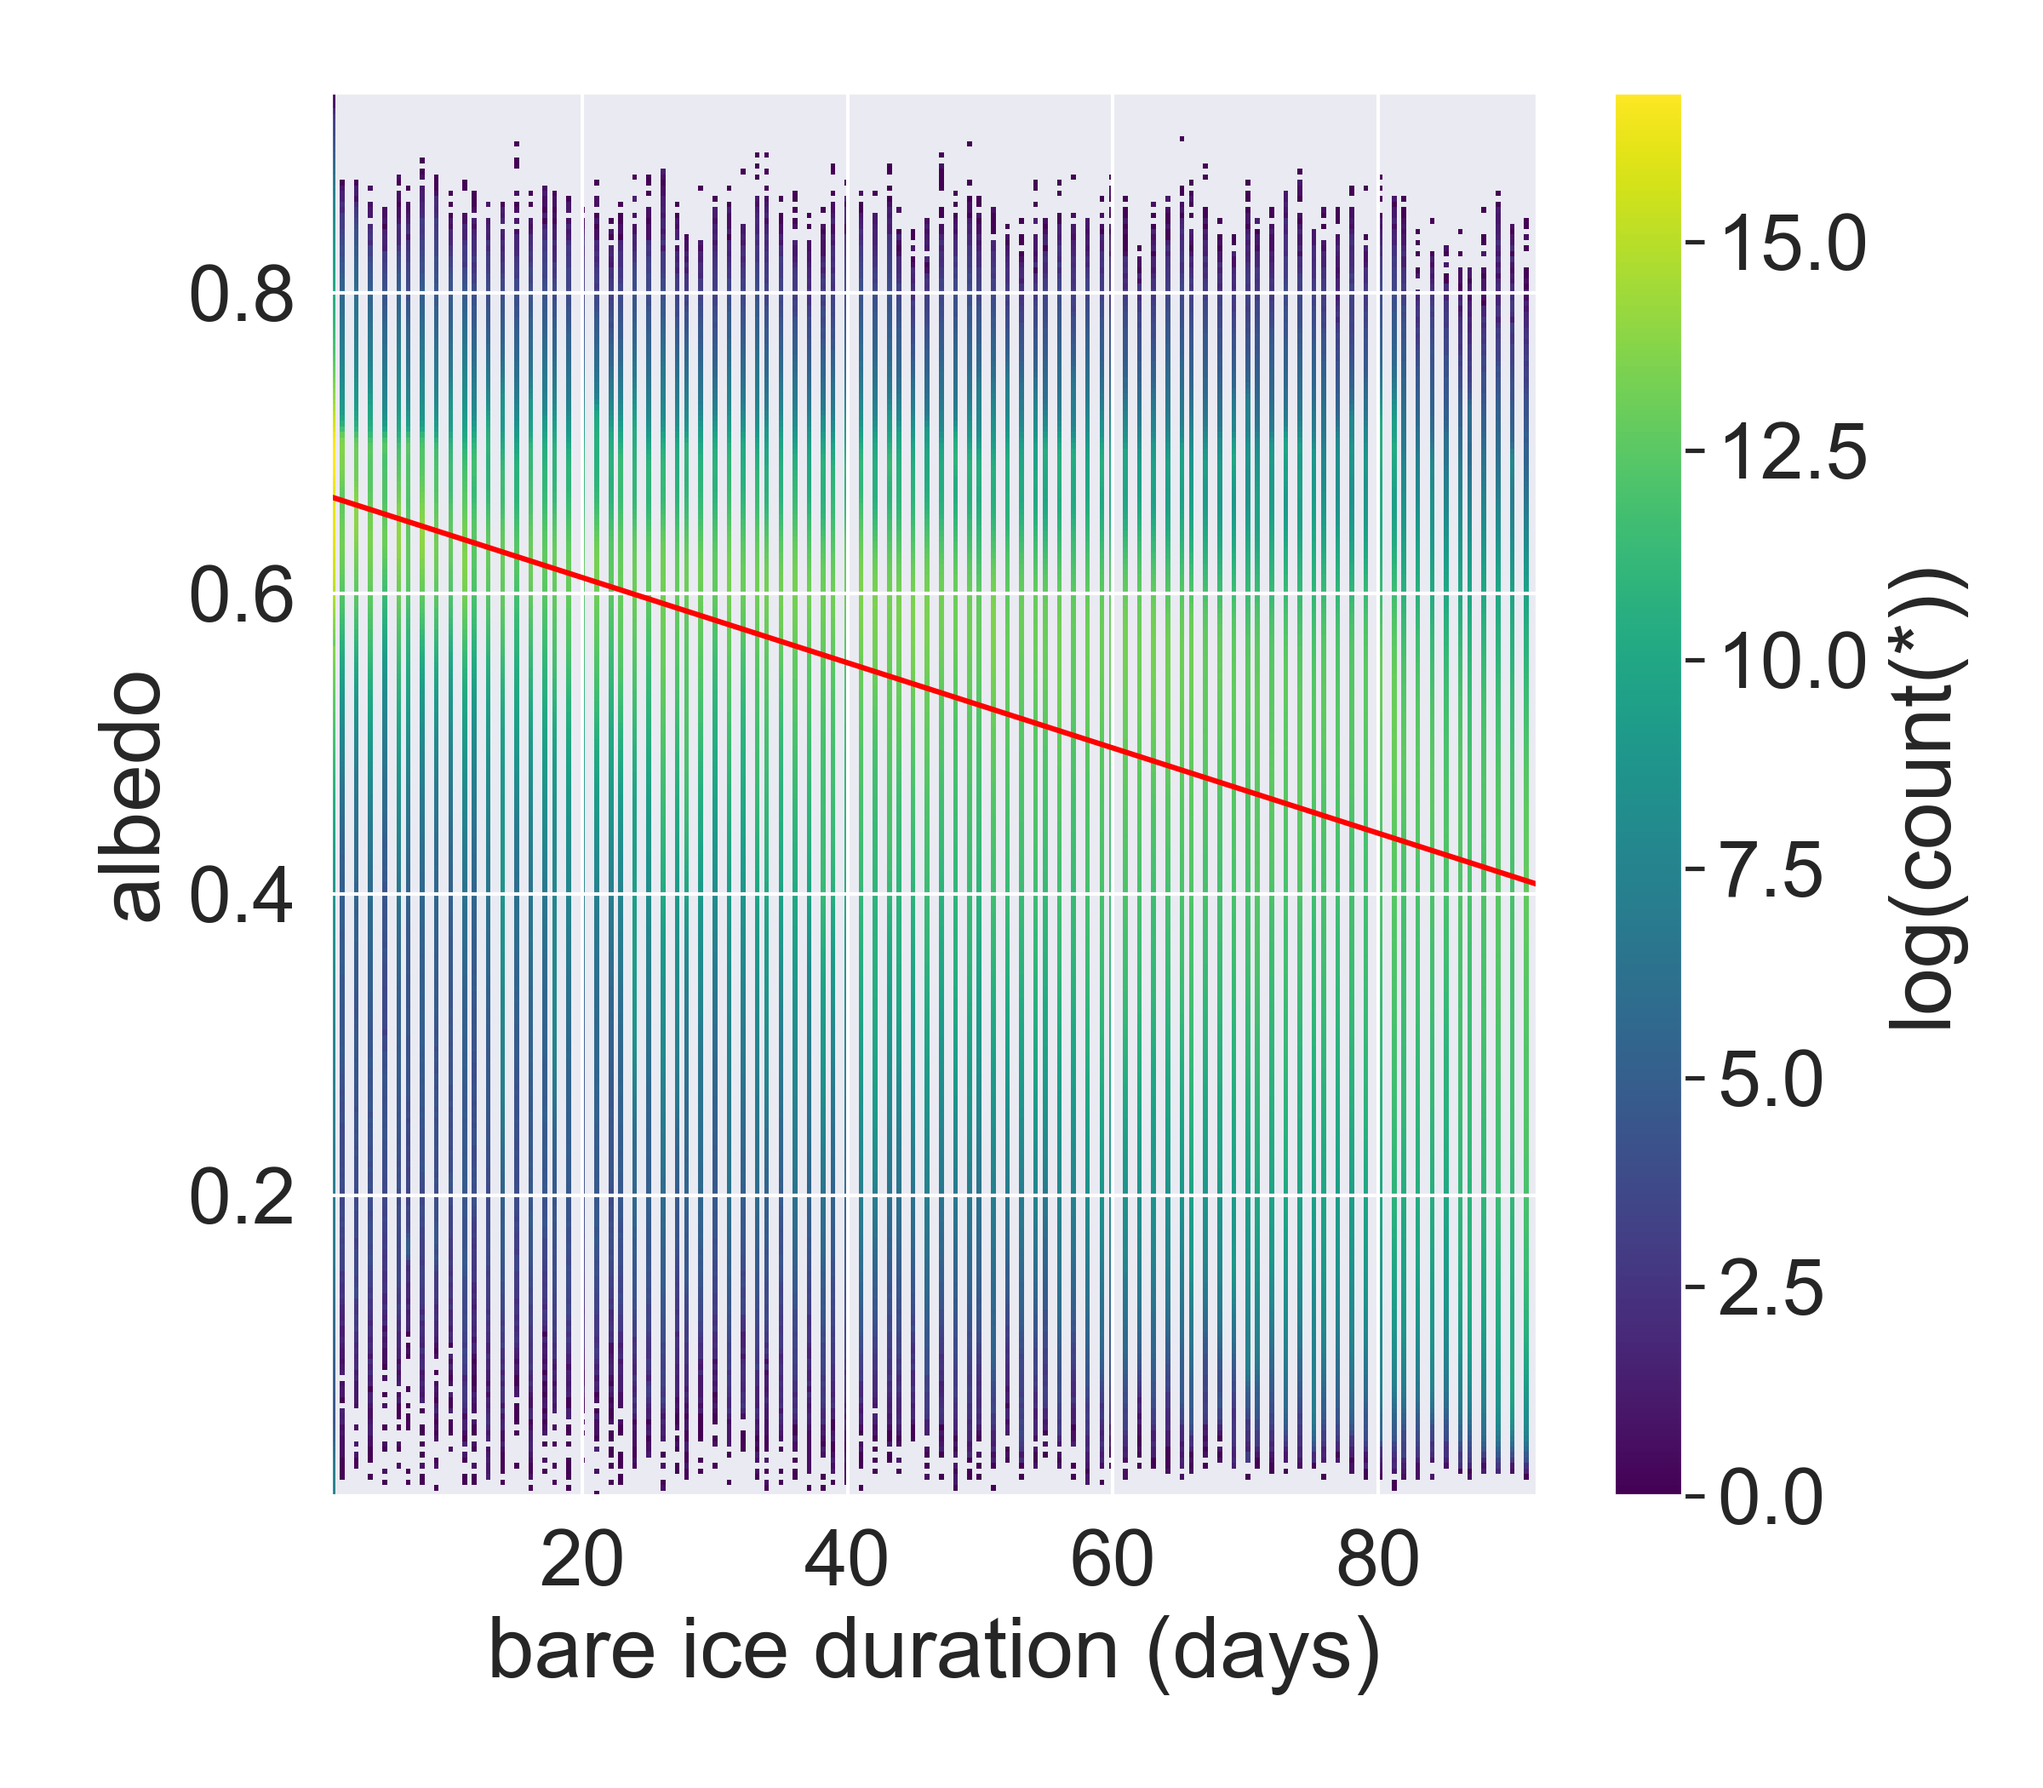
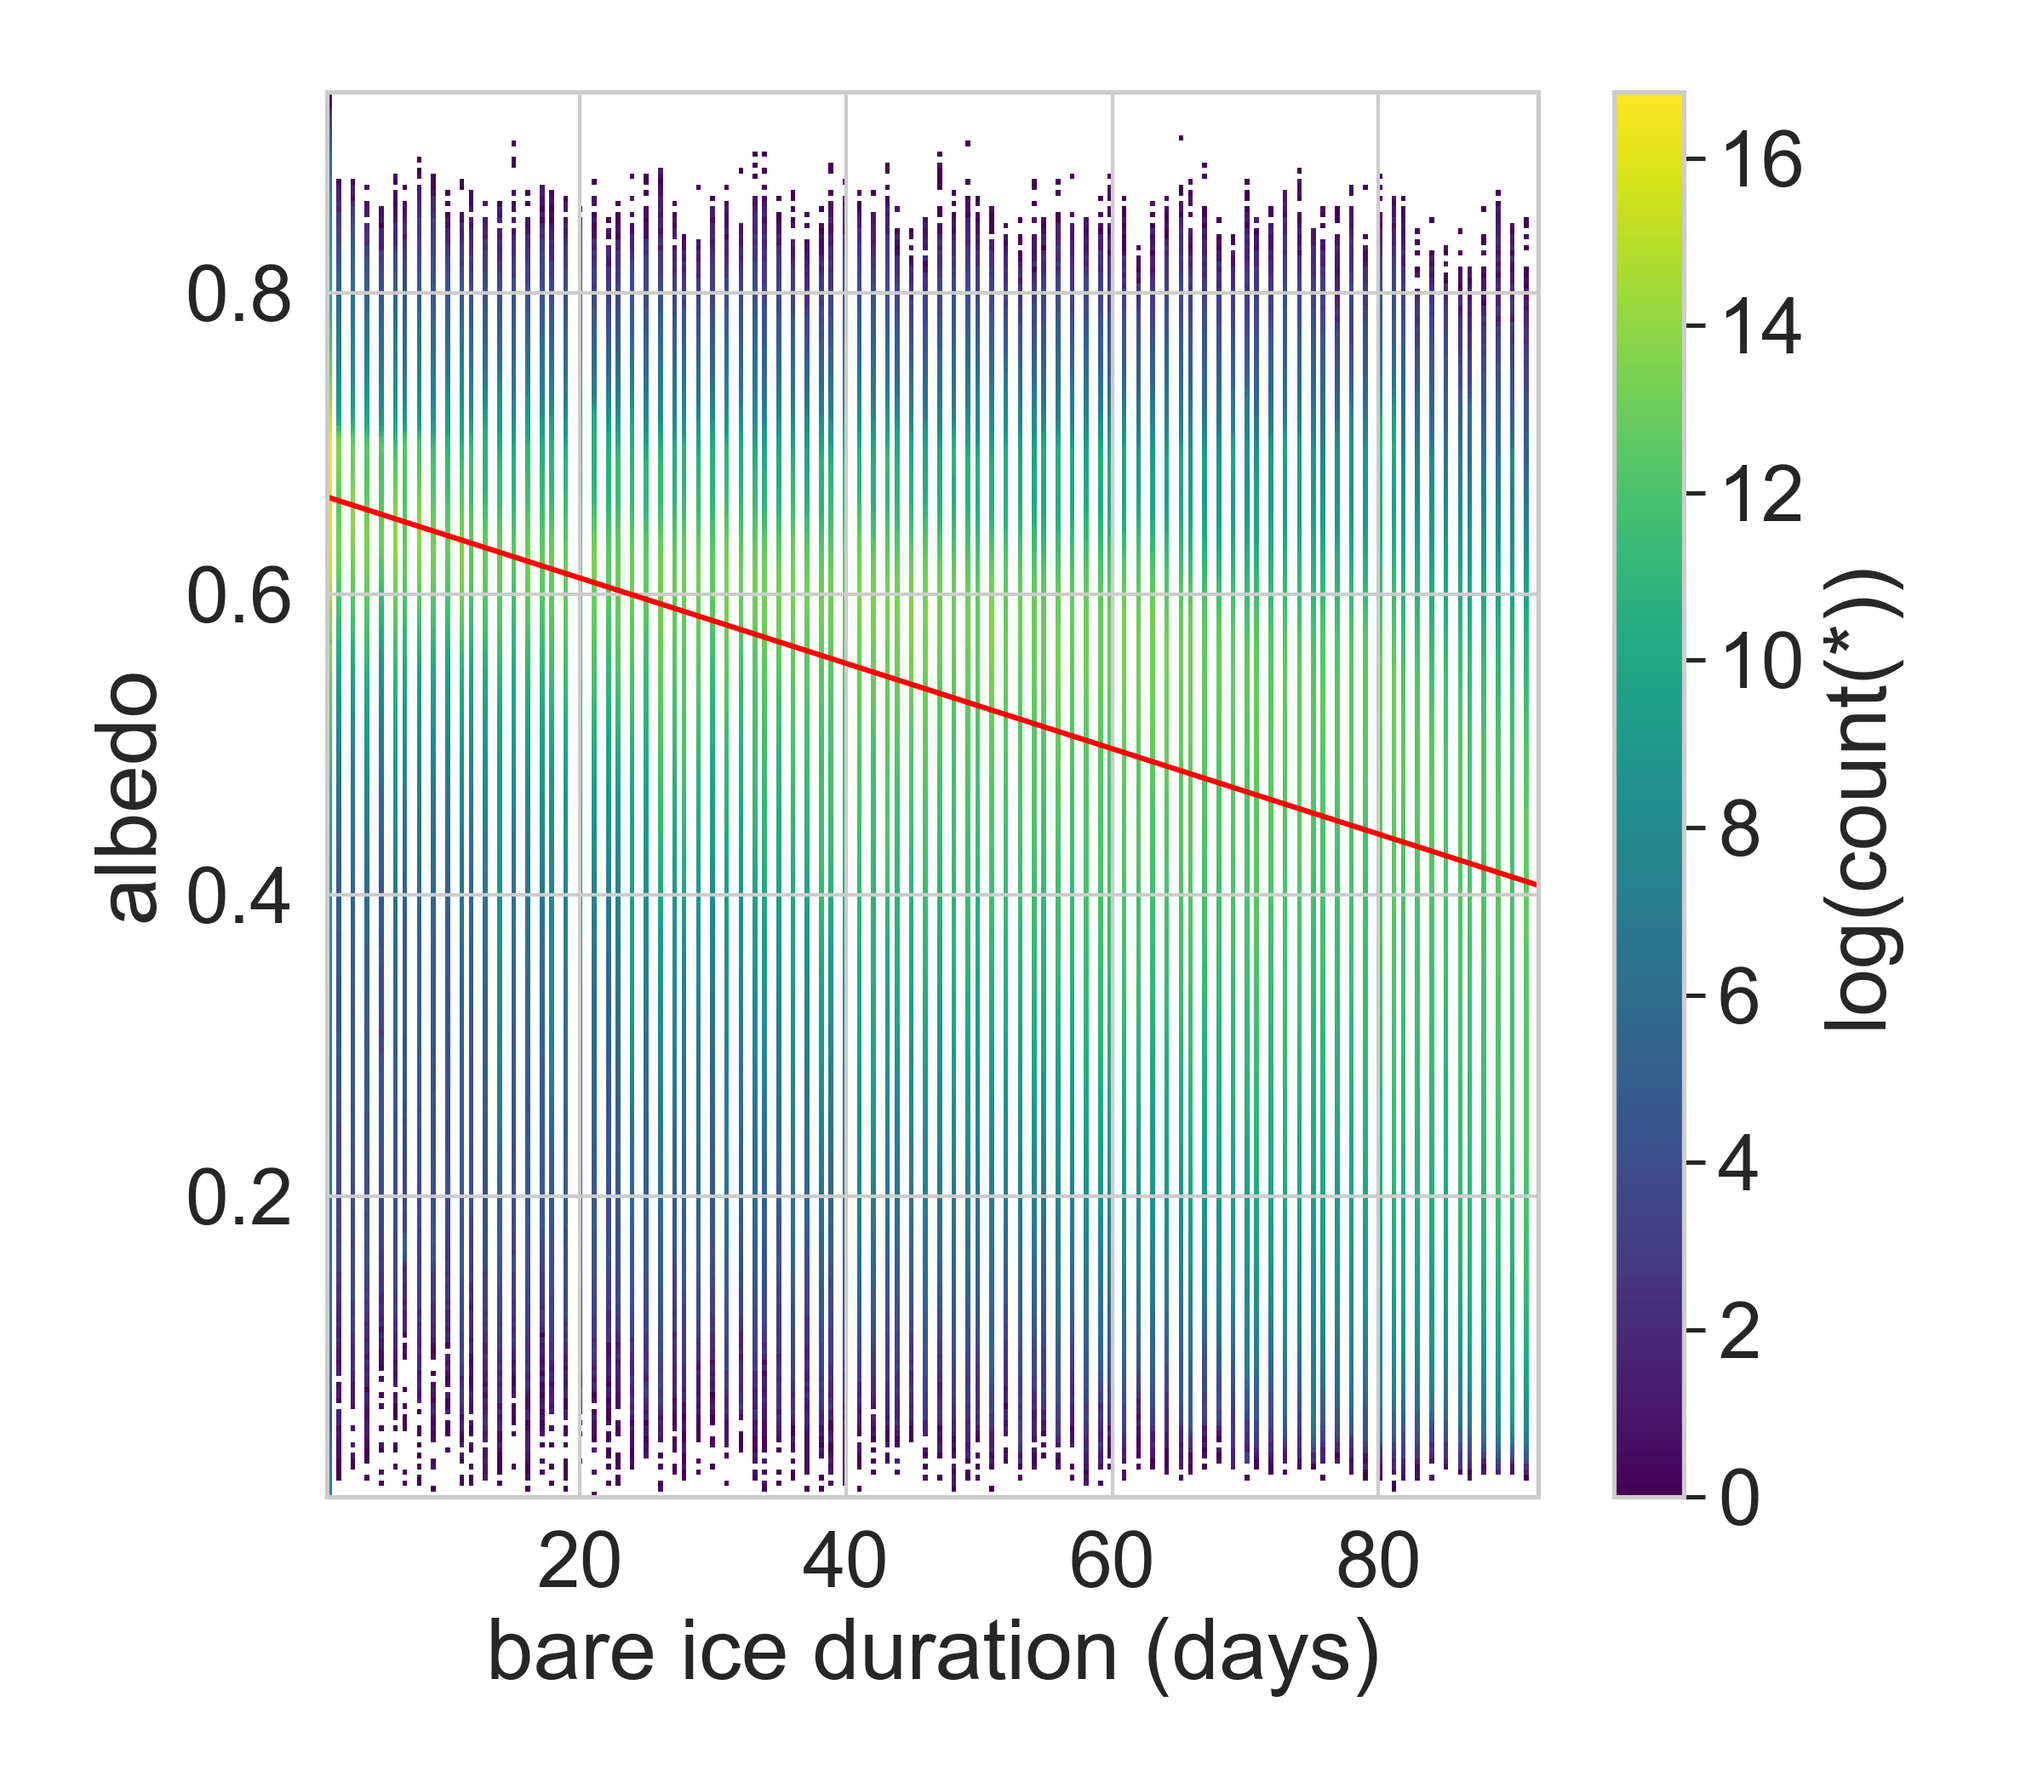
remake linearmdl fig

diff --git a/src/linearmdl.py b/src/linearmdl.py
@@ -4,7 +4,7 @@ import matplotlib.pyplot as plt
 import vaex as vx
 import seaborn as sns
 from scipy import stats
-sns.set_theme(style="darkgrid", font="Arial", font_scale=2)
+sns.set_theme(style="whitegrid", font="Arial", font_scale=2)
 # %%
 # Load data
 df1 = vx.from_csv("/data/shunan/data/albedospatial/HSA_data.csv")
